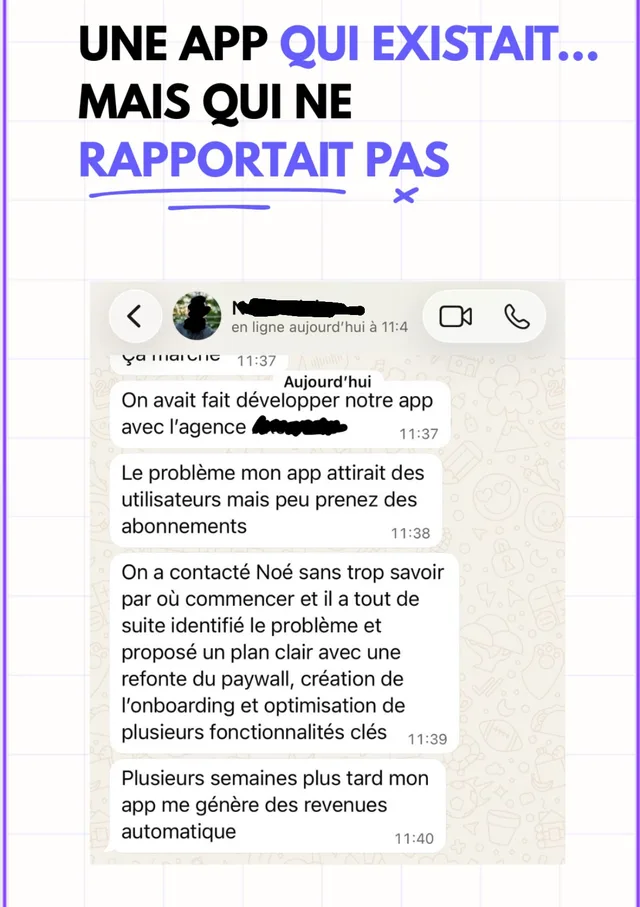
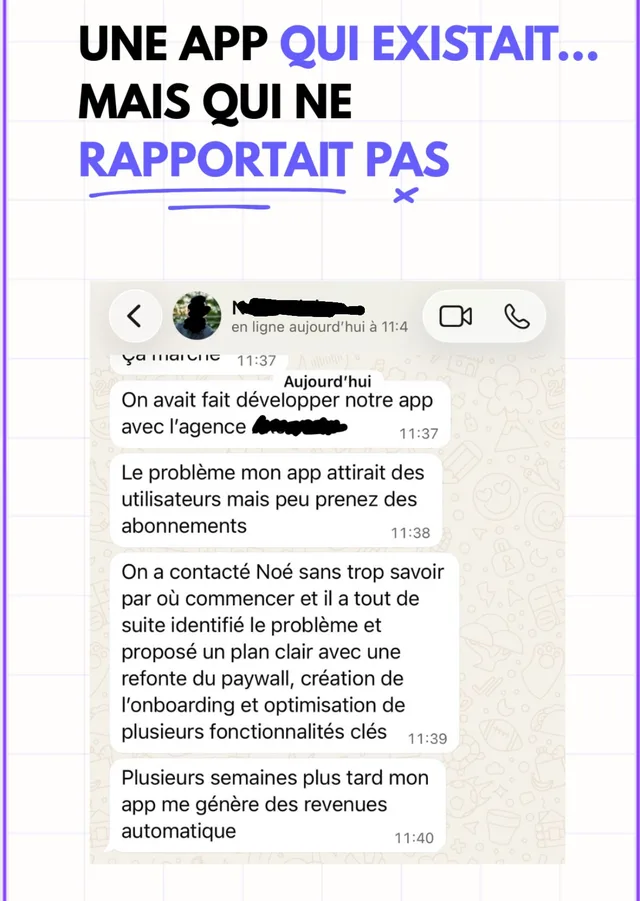
fix(projets): 3 stories uniformes, 300K, Mobile + web, image du post dans la carte Instagram, navbar sans CTA (marque seule)

diff --git a/src/Projets.jsx b/src/Projets.jsx
@@ -22,7 +22,6 @@ import { useEffect } from 'react'
  */
 
 const ME_PHOTO = '/assets/images/profile/me.webp'
-const WHATSAPP_URL = 'https://wa.me/33658308210'
 
 const ICON = {
   calorie: '/assets/images/apps/calorie.webp',
@@ -33,13 +32,18 @@ const ICON = {
 
 const TESTIMONIALS = [
   {
-    src: '/assets/images/projets/temoignage-delais.webp',
-    alt: 'Témoignage client WhatsApp : livré dans les délais, 100 % satisfait',
+    src: '/assets/images/projets/temoignage-idee.webp',
+    alt: 'Témoignage client WhatsApp : d\'une simple idée à une application qui tourne',
     rotate: 'sm:-rotate-2',
   },
   {
     src: '/assets/images/projets/temoignage-refonte.webp',
     alt: 'Témoignage client WhatsApp : une application qui existait mais ne rapportait pas, remise sur pied',
+    rotate: '',
+  },
+  {
+    src: '/assets/images/projets/temoignage-delais.webp',
+    alt: 'Témoignage client WhatsApp : livré dans les délais, 100 % satisfait',
     rotate: 'sm:rotate-2',
   },
 ]
@@ -59,7 +63,7 @@ const PROJECTS = [
     icon: ICON.hush,
     name: 'Hush',
     tagline: 'Messagerie anonyme',
-    highlight: '300 000',
+    highlight: '300K',
     unit: 'utilisateurs',
     note: 'Sur la première version',
     badge: 'trend',
@@ -77,9 +81,9 @@ const PROJECTS = [
     icon: ICON.purge,
     name: 'Purge',
     tagline: 'Tri & rangement de photos',
-    highlight: 'Web + mobile',
+    highlight: 'Mobile + web',
     unit: '',
-    note: 'La même application sur téléphone et ordinateur',
+    note: 'Sur téléphone et ordinateur',
     badge: 'devices',
   },
 ]
@@ -211,7 +215,7 @@ export default function Projets({ onBack }) {
       <header className="fixed inset-x-0 top-2.5 md:top-[18px] z-50 flex justify-center px-4 md:px-6">
         <div className="w-full max-w-210">
           <div className="backdrop-blur-[12px] border border-[#70707029] shadow-[0_1px_3px_#00000017] bg-[#fffefc99] rounded-[40px]">
-            <div className="flex items-center justify-between h-[64px] md:h-[68px] pl-3 pr-2.5 md:pl-4 md:pr-3">
+            <div className="flex items-center justify-center h-[64px] md:h-[68px] px-4">
               <button
                 onClick={onBack}
                 className="flex items-center gap-3 cursor-pointer group min-w-0"
@@ -232,15 +236,6 @@ export default function Projets({ onBack }) {
                   </span>
                 </span>
               </button>
-              <a
-                href={WHATSAPP_URL}
-                target="_blank"
-                rel="noopener noreferrer"
-                className="bg-[#131313] text-white text-sm font-medium px-4 md:px-5 py-2.5 rounded-full hover:bg-black transition-colors shrink-0"
-              >
-                <span className="sm:hidden">Discuter</span>
-                <span className="hidden sm:inline">Discuter avec Noé</span>
-              </a>
             </div>
           </div>
         </div>
@@ -321,14 +316,14 @@ export default function Projets({ onBack }) {
           <p className="text-grey text-[0.85rem] text-center mb-7">
             Des messages reçus, tels quels.
           </p>
-          <div className="flex flex-col sm:flex-row items-center sm:items-start justify-center gap-6 sm:gap-8">
+          <div className="flex flex-col sm:flex-row items-center sm:items-start justify-center gap-6 sm:gap-5">
             {TESTIMONIALS.map((t) => (
               <img
                 key={t.src}
                 src={t.src}
                 alt={t.alt}
                 loading="lazy"
-                className={`w-full max-w-[330px] sm:max-w-[315px] rounded-[18px] border border-card-border shadow-[0_6px_28px_rgba(102,93,255,0.12)] ${t.rotate}`}
+                className={`w-full max-w-[330px] sm:max-w-[250px] rounded-[18px] border border-card-border shadow-[0_6px_28px_rgba(102,93,255,0.12)] ${t.rotate}`}
               />
             ))}
           </div>
@@ -344,7 +339,7 @@ export default function Projets({ onBack }) {
             Ma spécialité : les projets complexes
           </h2>
           <p className="relative text-grey text-[0.9rem] max-w-[52ch] mx-auto leading-relaxed">
-            IA intégrée, automatisations, applications connectées entre web et mobile. Plus le projet est ambitieux, plus il m'intéresse.
+            IA intégrée, automatisations, applications connectées entre mobile et web. Plus le projet est ambitieux, plus il m'intéresse.
           </p>
         </div>
 
@@ -355,18 +350,22 @@ export default function Projets({ onBack }) {
           rel="noopener noreferrer"
           className="relative mt-4 flex items-center gap-4 bg-white border border-card-border rounded-[18px] p-5 sm:p-6 shadow-[0_2px_16px_rgba(102,93,255,0.06)] transition-shadow hover:shadow-[0_4px_24px_rgba(102,93,255,0.12)]"
         >
-          <span className="inline-flex items-center justify-center w-12 h-12 sm:w-14 sm:h-14 rounded-[24%] bg-brand-wash text-brand shrink-0">
-            <svg width="24" height="24" viewBox="0 0 24 24" fill="none" stroke="currentColor" strokeWidth="2" strokeLinecap="round" strokeLinejoin="round" aria-hidden="true">
-              <rect x="2" y="2" width="20" height="20" rx="5" />
-              <circle cx="12" cy="12" r="4.5" />
-              <circle cx="17.5" cy="6.5" r="0.5" fill="currentColor" stroke="none" />
-            </svg>
-          </span>
+          <img
+            src="/assets/images/projets/ig-post-90.webp"
+            alt="Publication Instagram : pourquoi 90 % des applications ne rapportent rien"
+            loading="lazy"
+            className="w-20 h-20 sm:w-24 sm:h-24 rounded-[14px] object-cover shrink-0 border border-black/5 shadow-[0_2px_10px_rgba(3,52,117,0.10)]"
+          />
           <span className="min-w-0 flex-1">
             <span className="block font-heading text-text font-bold text-[1rem] leading-snug">
               « Pourquoi 90&nbsp;% des applications ne rapportent rien »
             </span>
-            <span className="block text-grey text-[0.78rem] font-medium mt-0.5">
+            <span className="mt-1 flex items-center gap-1.5 text-grey text-[0.78rem] font-medium">
+              <svg className="shrink-0" width="13" height="13" viewBox="0 0 24 24" fill="none" stroke="currentColor" strokeWidth="2" strokeLinecap="round" strokeLinejoin="round" aria-hidden="true">
+                <rect x="2" y="2" width="20" height="20" rx="5" />
+                <circle cx="12" cy="12" r="4.5" />
+                <circle cx="17.5" cy="6.5" r="0.5" fill="currentColor" stroke="none" />
+              </svg>
               L'analyse est épinglée sur mon profil · @noecalmes.app
             </span>
           </span>
